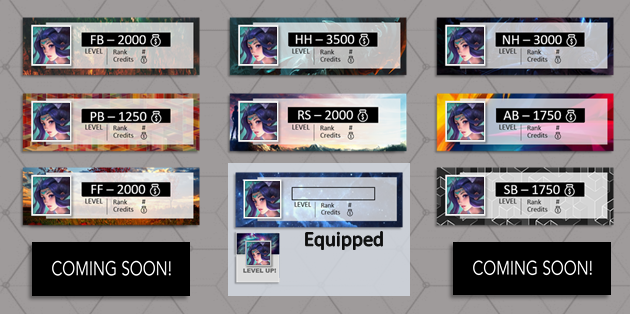
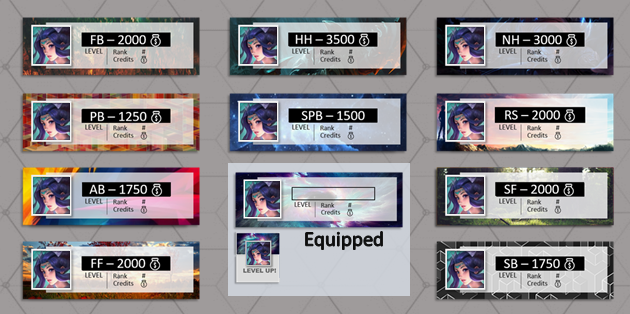
:gun:

diff --git a/Lynx/Modules/Utility.cs b/Lynx/Modules/Utility.cs
@@ -70,14 +70,14 @@ namespace Lynx.Modules
             {
                 x.Name = $"Hey im {Context.Client.CurrentUser.Username}";
                 x.IconUrl = Context.Client.CurrentUser.GetAvatarUrl();
-            }).WithDescription("I'm a multifunctional discord bot for useful things. Please check out my [documentation](https://www.lynxbot.cf/documentation)!\n" +
+            }).WithDescription("I'm a multifunctional discord bot for useful things. Please check out my [documentation](https://lynxbot.cf/documentation.html)!\n" +
             "[My GitHub repostory](https://github.com/dataccountzXJ9/Lynx)")
             
             .AddField(x =>
             {
                 x.IsInline = true;
                 x.Name = "Info";
-                x.Value = $"<:developer:337976213584871434> **Developer:** `{Info.Owner}`\n<:www:337978348854575105> **Website:** [lynxbot.cf](https://www.lynxbot.cf)\n" +
+                x.Value = $"<:developer:337976213584871434> **Developer:** `{Info.Owner}`\n<:www:337978348854575105> **Website:** [lynxbot.cf](https://lynxbot.cf)\n" +
             $"<:ramusage:338007753794650113> **Ram Usage:** {GetHeapSize()} MB\n" +
             $"<:uptime:338009832944566274> **Uptime:** {GetUptime()}\n" +
             $"<:envelop:338011365476401173> **Messages Received:** {Config.MessagesReceived}\n"+

diff --git a/Lynx/Modules/Currency.cs b/Lynx/Modules/Currency.cs
@@ -455,8 +455,8 @@ namespace Lynx.Modules
                     break;
             }
         }
-        [RequireUserPermission(GuildPermission.ManageGuild | GuildPermission.SendMessages)]
-        [RequireBotPermission(GuildPermission.ManageGuild | GuildPermission.SendMessages)]
+        [RequireUserPermission(GuildPermission.ManageGuild)]
+        [RequireBotPermission(GuildPermission.ManageGuild)]
         [Command("blacklist"),Alias("bl", "blist")]
         public async Task BlackListChannelAsync(ITextChannel Channel = null)
         {
@@ -471,8 +471,8 @@ namespace Lynx.Modules
             }).Build());
             await GuildConfig.SaveAsync(Config, Context.Guild.Id);
         }
-        [RequireUserPermission(GuildPermission.ManageGuild | GuildPermission.SendMessages)]
-        [RequireBotPermission(GuildPermission.ManageGuild | GuildPermission.SendMessages)]
+        [RequireUserPermission(GuildPermission.ManageGuild)]
+        [RequireBotPermission(GuildPermission.ManageGuild)]
         [Command("whitelist"), Alias("wl", "wlist")]
         public async Task WhiteListAsync(ITextChannel Channel = null)
         {

diff --git a/Lynx/Services/Currency/Methods.cs b/Lynx/Services/Currency/Methods.cs
@@ -28,7 +28,12 @@ namespace Lynx.Services.Currency
             BCS.NotOwned.Add("3");
             BCS.NotOwned.Add("4");
             BCS.NotOwned.Add("5");
-            BCS.NotOwned.Add("6");          
+            BCS.NotOwned.Add("6");
+            BCS.NotOwned.Add("7");
+            BCS.NotOwned.Add("8");
+            BCS.NotOwned.Add("9");
+            BCS.NotOwned.Add("10");
+            BCS.NotOwned.Add("11");
             UserWrapper toAdd = new UserWrapper
             {
                 Backgrounds = BCS

diff --git a/Lynx/Handler/EventsHandler.cs b/Lynx/Handler/EventsHandler.cs
@@ -11,7 +11,7 @@ using System.Threading;
 using System.Threading.Tasks;
 using Lynx.Services.Currency;
 using NLog;
-
+using Octokit;
 namespace Lynx.Handler
 {
     public class EventsHandler
